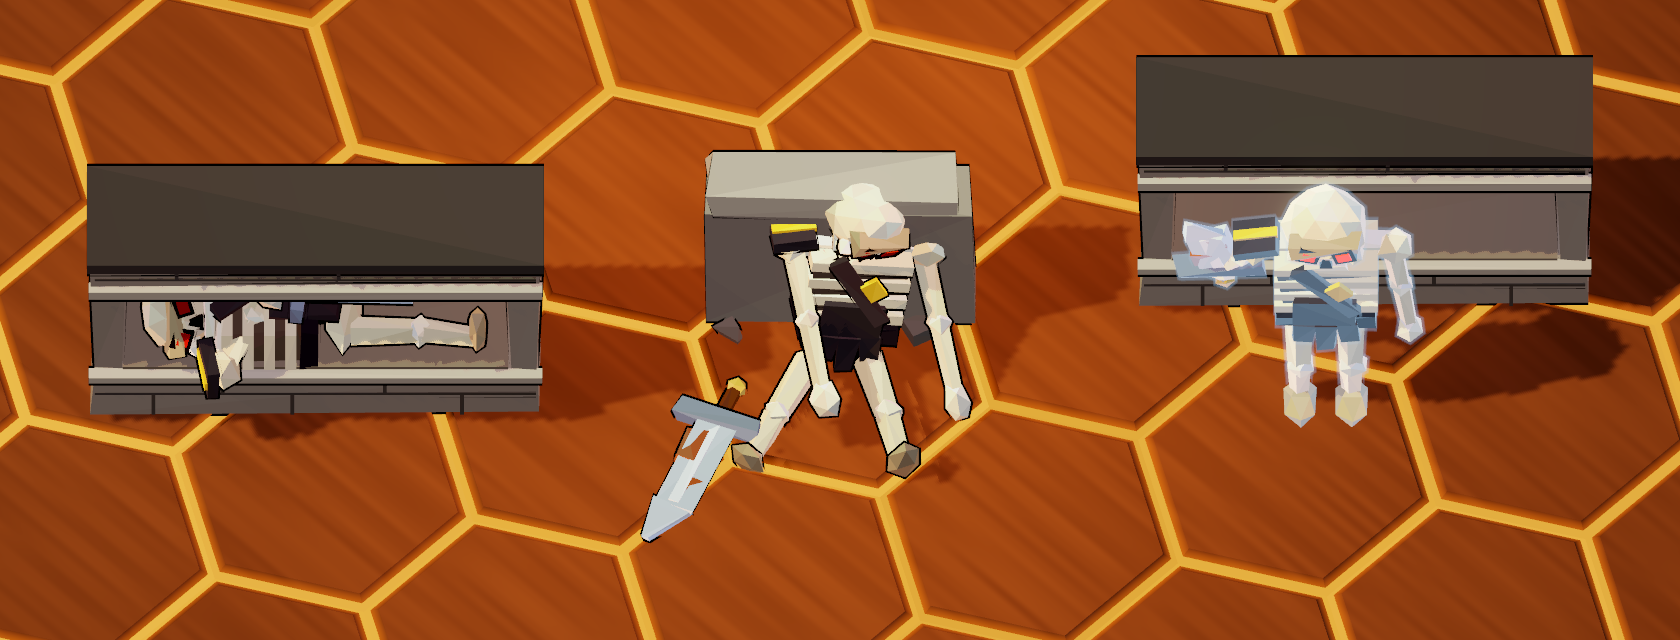
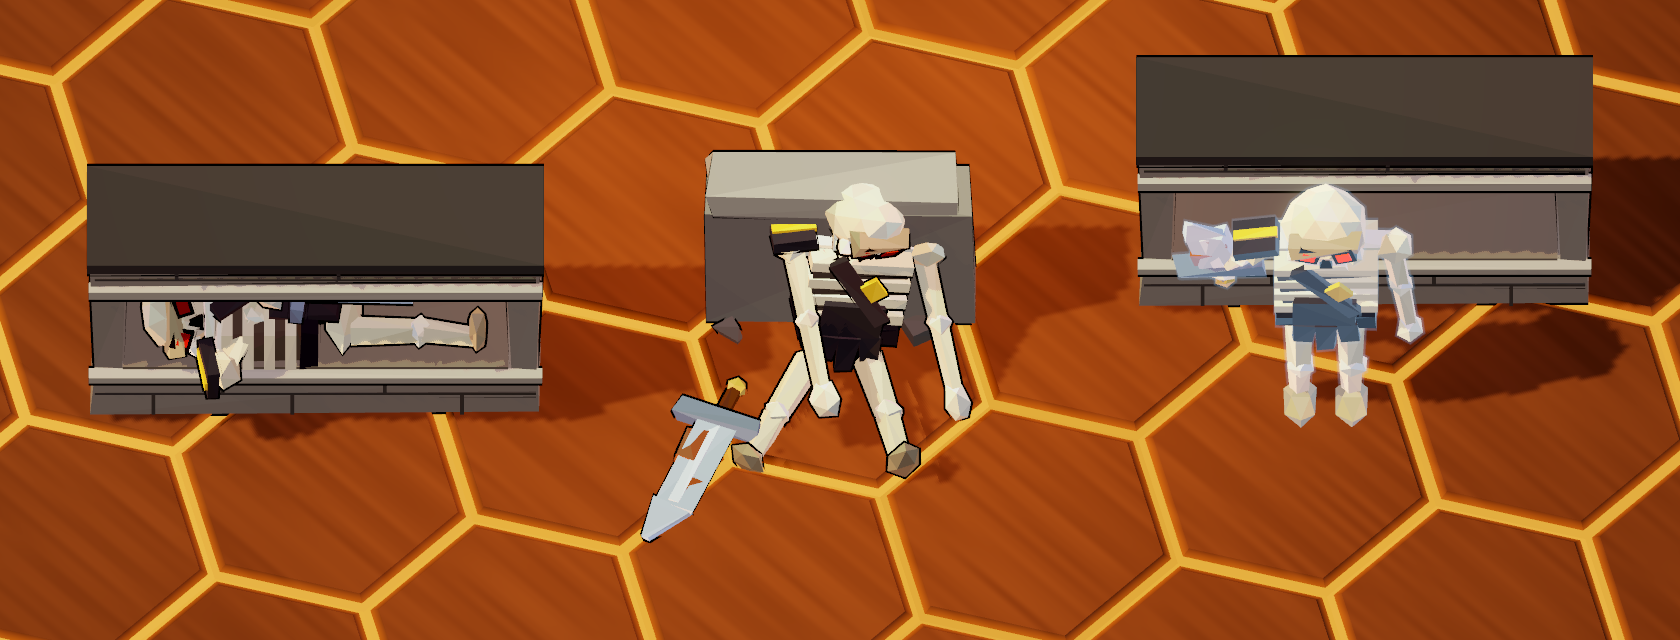
Haunt look: the ghost wears the possessed suit (a larger wisp-vapour body round the armour)
The user (2026-10-29): the rim alone did not read as possessed; picked "The
ghost shows around it": each armour part again, 1.2x round its middle, in the
wisp's vapour. "Fine for now. I'll want to see it animated."

Changed region(s): [[0.7119, 0.3438, 0.8357, 0.5938], [0.7119, 0.4375, 0.7429, 0.4688]]

diff --git a/docs/design/haunt-look.md b/docs/design/haunt-look.md
@@ -9,6 +9,17 @@ Especially as a wisp."). Every ghostly thing here wears the **rim** look, at the
 decisions they serve are in new-themes.md, "Ghost house: haunted contracts", Ghosts: a ghost possesses a host (a suit of
 armour, a skeleton), and ghost form is a whole-body transform you cast on yourself ("For now").
 
+## The user's read (2026-10-29)
+
+- **The possessed knight did not read as possessed** with the rim alone: "This does not read as being possessed by a ghost."
+  The rim only tints the steel; what the user liked on the wisp was its steamy body ("The wisp itself looked kind of
+  steamy").
+- **The ghost wears the suit**, picked from three ideas (steam leaking out, the ghost showing round it, the armour turning to
+  steam): "The ghost shows around it. A faint, larger wisp-like body overlaps the armour, as if the ghost is wearing it."
+  Built: every armour part again, 1.2 times larger round its own middle, in the wisp's vapour (`HauntPiece.vapour`), so it
+  follows the pose. The user: "Fine for now. I'll want to see it animated." To do: the possessed knight moving (today it
+  holds a still stance; only the pulse moves).
+
 ## What the user is choosing
 
 | Test | Options | What to judge |
